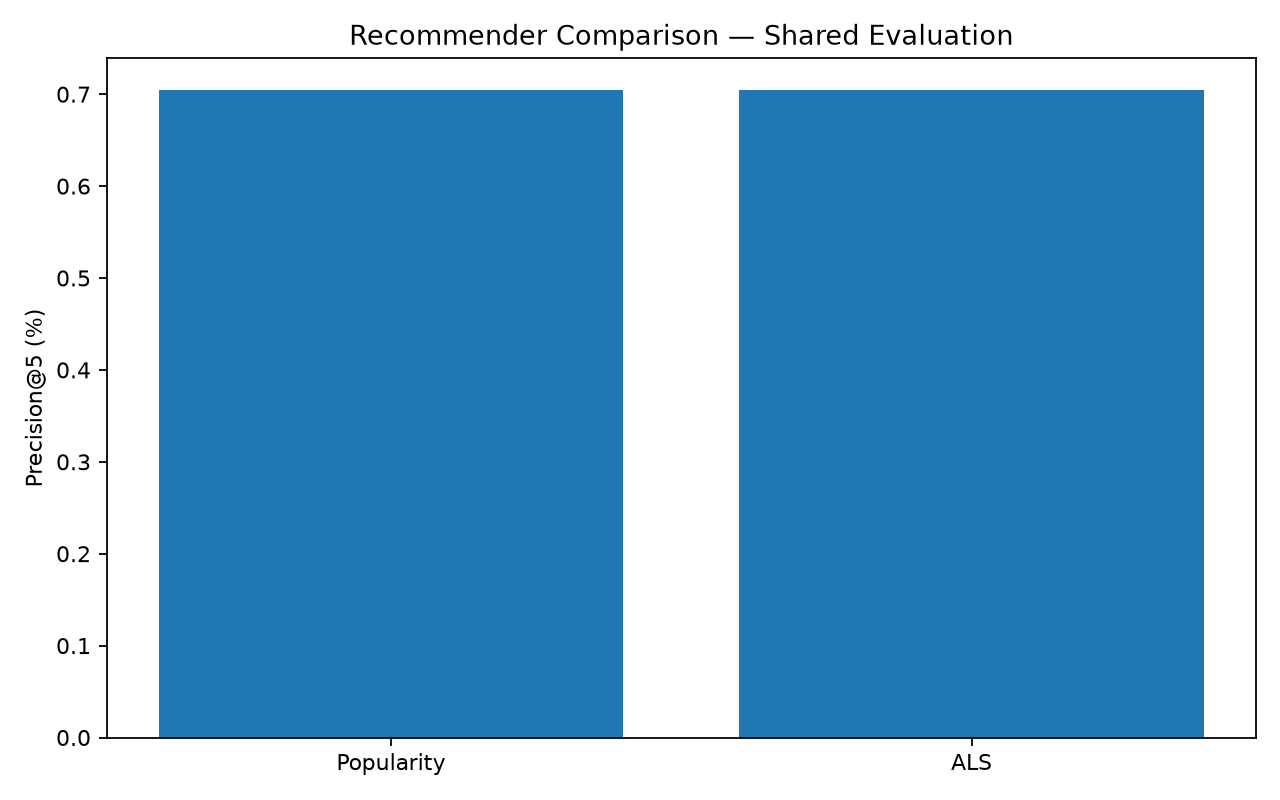
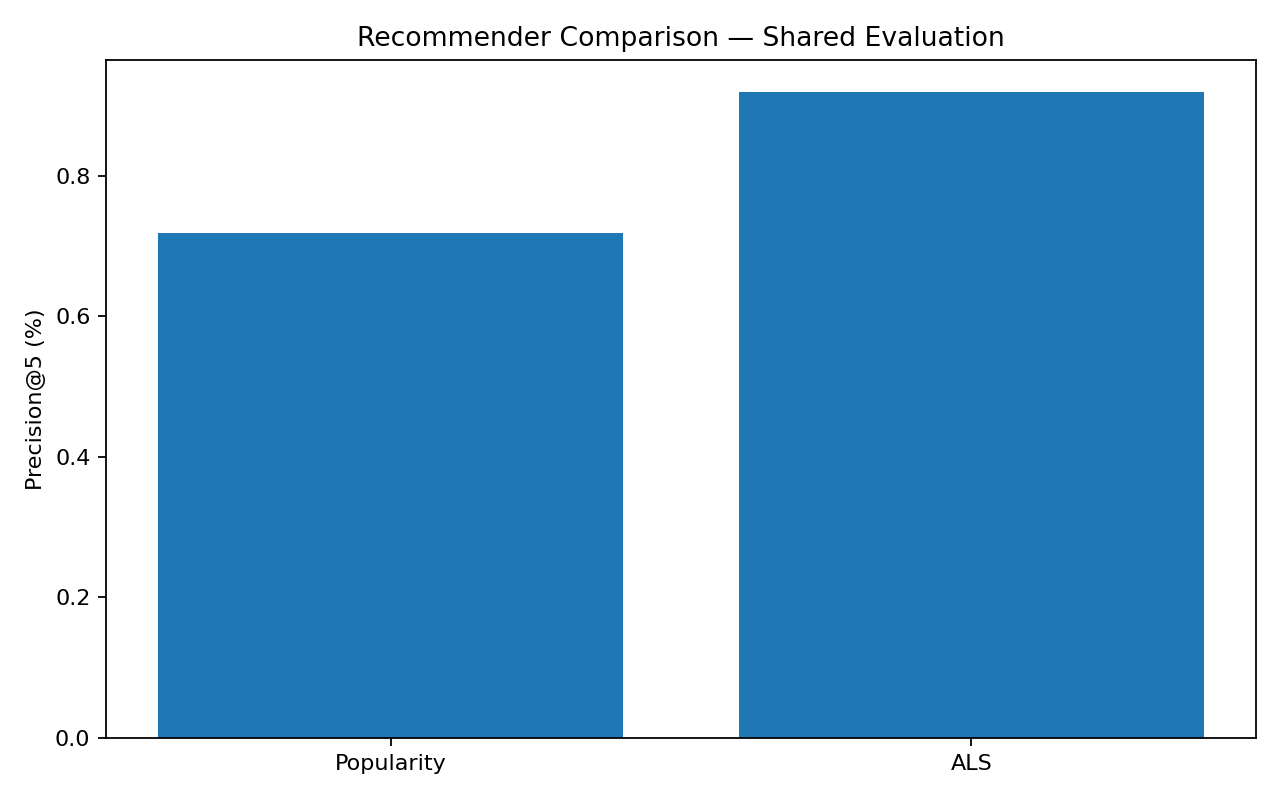
Update recommender evaluation charts and project documentation

diff --git a/scripts/create_project_charts.py b/scripts/create_project_charts.py
@@ -45,8 +45,8 @@ plt.close()
 
 # Chart 3: Shared recommender evaluation
 models = ["Popularity", "ALS"]
-precision = [0.0070404172, 0.0070404172]
-recall = [0.0352020860, 0.0352020860]
+precision = [0.007179, 0.009189]
+recall = [0.033381, 0.045585]
 
 plt.figure(figsize=(8, 5))
 plt.bar(models, [x * 100 for x in precision])

diff --git a/scripts/compare_recommenders.py b/scripts/compare_recommenders.py
@@ -206,7 +206,7 @@ def evaluate(name, recommendations):
         )
     )
 
-    print(f"\\n{name} - total hits:")
+    print(f"\n{name} - total hits:")
     print(per_user.agg(F.sum("hits")).first()[0])
 
     print(f"{name} - users grouped by hit count:")

diff --git a/README.md b/README.md
@@ -132,6 +132,13 @@ Popularity recommendations:
 Shared evaluation metrics:
 `/ecommerce/recommendations/model_comparison`
 
+Category revenue with English names:
+`/ecommerce/analytics/category_revenue_enriched`
+
+Monthly delivery analytics:
+`/ecommerce/analytics/monthly_delivery` (from `ecommerce_orders_analytics.py`)
+and `/ecommerce/analytics/monthly_delivery_v2` (from `monthly_delivery_spark.py`)
+
 ## 9. Visualizations
 
 Charts are generated in:
@@ -146,10 +153,10 @@ and recommendation evaluation metrics.
 Example commands from the development environment:
 
 ```bash
-spark-submit ~/category_revenue_spark.py
-spark-submit ~/product_recommender.py
-spark-submit ~/popularity_baseline.py
-spark-submit ~/compare_recommenders.py
+spark-submit scripts/category_revenue_spark.py
+spark-submit scripts/product_recommender.py
+spark-submit scripts/popularity_baseline.py
+spark-submit scripts/compare_recommenders.py
 ```
 
 Some scripts depend on the WSL Spark installation and the configured
@@ -159,8 +166,10 @@ Spark ML scripts.
 
 ## 11. Limitations and Future Work
 
-- Investigate why ALS and popularity produce identical evaluation metrics.
-- Compare recommendations on the exact same users and inspect ranking overlap.
+- The ALS lead over popularity is small (64 vs 50 hits on 1,451 eligible
+  held-out interactions); repeat the evaluation over several random splits
+  before drawing conclusions.
+- Inspect ranking overlap between ALS and popularity recommendations.
 - Explore ALS hyperparameter tuning after validating the evaluation.
 - Consider time-based train/test splitting for future-purchase evaluation.
 - Add more visualizations and automate the end-to-end pipeline.
@@ -175,7 +184,7 @@ The executable Python scripts are located in the `scripts/` directory.
 | `category_revenue_spark.py` | Distributed category revenue analytics using Spark |
 | `category_revenue_enriched.py` | Extended category revenue analysis |
 | `monthly_delivery_spark.py` | Monthly delivery analytics |
-| `ecommerce_orders_analytics.py` | E-commerce order analytics |
+| `ecommerce_orders_analytics.py` | Order analytics with monthly delivery statistics (overlaps with `monthly_delivery_spark.py`) |
 | `dataset_stats.py` | Dataset statistics |
 | `product_recommender.py` | ALS collaborative-filtering recommendations |
 | `popularity_baseline.py` | Popularity-based recommendation baseline |
